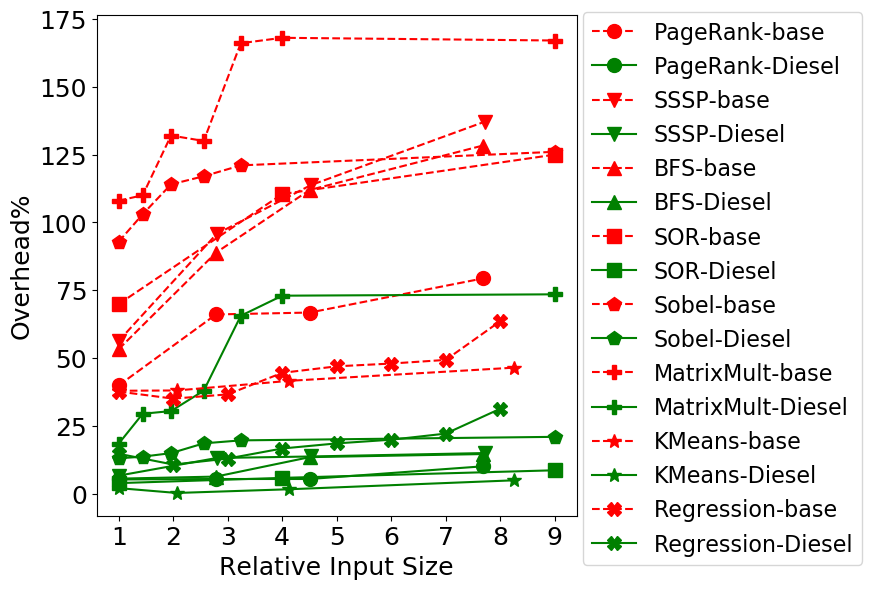
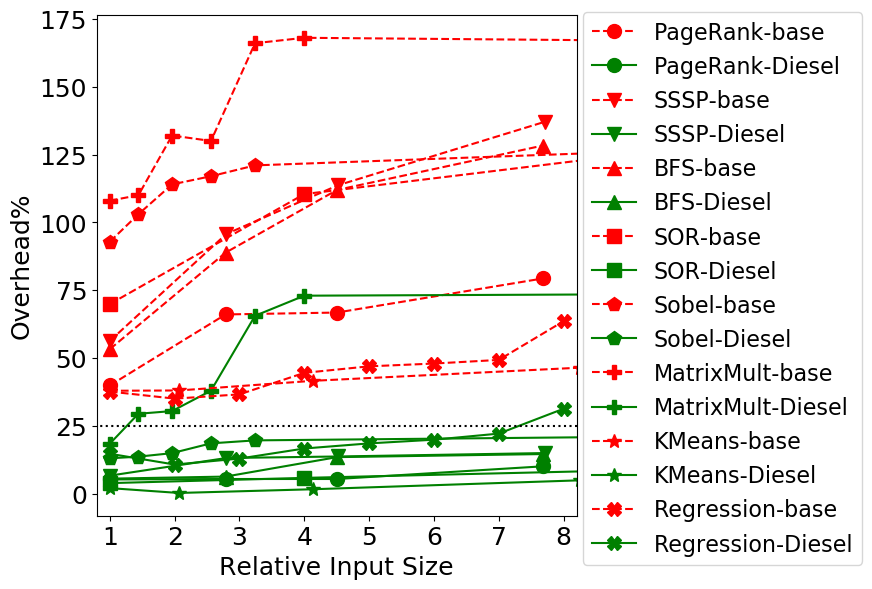
plots update

diff --git a/diesel/src/plot-all-times.py b/diesel/src/plot-all-times.py
@@ -16,6 +16,10 @@ benchmarks = ['PageRank',
               'MatrixMult',
               'KMeans',
               'Regression',
+              #'Hiring',
+              #'Income SVM',
+              #'Income DT',
+              #'Income NN',
              ]
 
 data = {
@@ -28,13 +32,17 @@ data = {
         'MatrixMult': [(10000,108.,18.5),(14400,110.,29.5),(19600,132.,30.5),(25600,130.,38.0),(32400,166.,65.6),(40000,168.,73.0),(90000,167.,73.5)],
         'KMeans': [(248, 37.97132382950256, 2.1114444212934282), (512, 38.08782047671841, 0.3284102709640509), (1024, 41.634931039260096, 1.6938769212795561), (2048, 46.490315535838185, 4.990946215861019)],
         'Regression': [(500, 37.677171760711595, 14.765906836545136), (1000, 35.07539131142273, 10.79295400994414), (1500, 36.644736922643325, 13.001743127020996), (2000, 44.577089225723384, 16.70492627710252), (2500, 46.97774337946356, 18.59035151775253), (3000, 48.001511642987026, 19.94895202234672), (3500, 49.336999492105434, 22.190399334523093), (4000, 63.59011048405577, 31.34188253822615)],
+        'Hiring': [(1e6,None,1.505),(2e6,None,2.248),(4e6,None,7.021),(8e6,None,1.710)],
+        'Income SVM': [(1e6,None,0.582),(2e6,None,3.221),(4e6,None,5.746),(8e6,None,1.067)],
+        'Income DT': [(1e6,None,1.164),(2e6,None,1.935),(4e6,None,2.957),(8e6,None,0.560)],
+        'Income NN': [(1e6,None,2.856),(2e6,None,3.177),(4e6,None,1.154),(8e6,None,2.064)],
        }
         
 
 names = ['Baseline', 'Diesel']
 linestyles = ['--', '-']
-colors = ['red', 'green']
-markers = ['o', 'v', '^', 's', 'p', 'P', '*', 'X', 'D']
+colors = ['red', 'green', 'blue']
+markers = ['o', 'v', '^', 's', 'p', 'P', '*', 'X', 'D', 'd', '1', '2']
 
 geomeanData = [None,([],[]),([],[]),([],[]),([],[]),([],[]),([],[]),([],[]),([],[]),([],[])]
 geomeanRange = 9
@@ -47,6 +55,7 @@ for i, benchmark in enumerate(benchmarks):
   relSizes = [size/sizes[0] for size in sizes]
   baseTimes = [datum[1] for datum in benchmarkData]
   dieselTimes = [datum[2] for datum in benchmarkData]
+  hasBaseTimes = (baseTimes[0] != None)
   # interpolate geomean data
   for j in range(1,geomeanRange):
     interpBaseTime = None
@@ -54,7 +63,8 @@ for i, benchmark in enumerate(benchmarks):
     for k, relSize in enumerate(relSizes):
       if relSize == j:
         # found exact
-        interpBaseTime = baseTimes[k]
+        if hasBaseTimes:
+          interpBaseTime = baseTimes[k]
         interpDieselTime = dieselTimes[k]
         break
       if relSize > j or k==len(relSizes)-1:
@@ -62,14 +72,20 @@ for i, benchmark in enumerate(benchmarks):
         scaleFactor = 1./(relSizes[k]-relSizes[k-1])
         lowerFactor = (j-relSizes[k-1])*scaleFactor
         upperFactor = (relSizes[k]-j)*scaleFactor
-        interpBaseTime = baseTimes[k-1]*lowerFactor + baseTimes[k]*upperFactor
+        if hasBaseTimes:
+          interpBaseTime = baseTimes[k-1]*lowerFactor + baseTimes[k]*upperFactor
         interpDieselTime = dieselTimes[k-1]*lowerFactor + dieselTimes[k]*upperFactor
         break
-    if interpBaseTime and interpDieselTime:
+    if interpBaseTime:
       geomeanData[j][0].append(max(interpBaseTime+1.,1.))
+    if interpDieselTime:
       geomeanData[j][1].append(max(interpDieselTime+1.,1.))
-  plt.plot(relSizes, baseTimes, label=benchmark+'-base', linestyle=linestyles[0], color=colors[0], marker=markers[i], markersize=10)
-  plt.plot(relSizes, dieselTimes, label=benchmark+'-Diesel', linestyle=linestyles[1], color=colors[1], marker=markers[i], markersize=10)
+  dieselColor = colors[1]
+  if hasBaseTimes:
+    plt.plot(relSizes, baseTimes, label=benchmark+'-base', linestyle=linestyles[0], color=colors[0], marker=markers[i], markersize=10)
+  else:
+    dieselColor = colors[2]
+  plt.plot(relSizes, dieselTimes, label=benchmark+'-Diesel', linestyle=linestyles[1], color=dieselColor, marker=markers[i], markersize=10)
 
 baseGeomeans = []
 dieselGeomeans = []
@@ -81,10 +97,13 @@ print(dieselGeomeans)
 # plt.plot(range(1,geomeanRange), baseGeomeans, color='blue')
 # plt.plot(range(1,geomeanRange), dieselGeomeans, color='yellow')
 
+plt.plot([0,9],[25,25],linestyle=':',color='black')
+
 plt.xlabel('Relative Input Size', fontsize=18)
 plt.ylabel('Overhead%', fontsize=18)
-plt.xticks(fontsize=18)#, rotation=90)
+plt.xticks(fontsize=18)
 plt.yticks(fontsize=18)
+plt.xlim((0.8,8.2))
 plt.legend(fontsize=16,bbox_to_anchor=(0.99,-0.12),loc='lower left')
 plt.tight_layout()
 plt.savefig('times-all.png',bbox_inches='tight')
